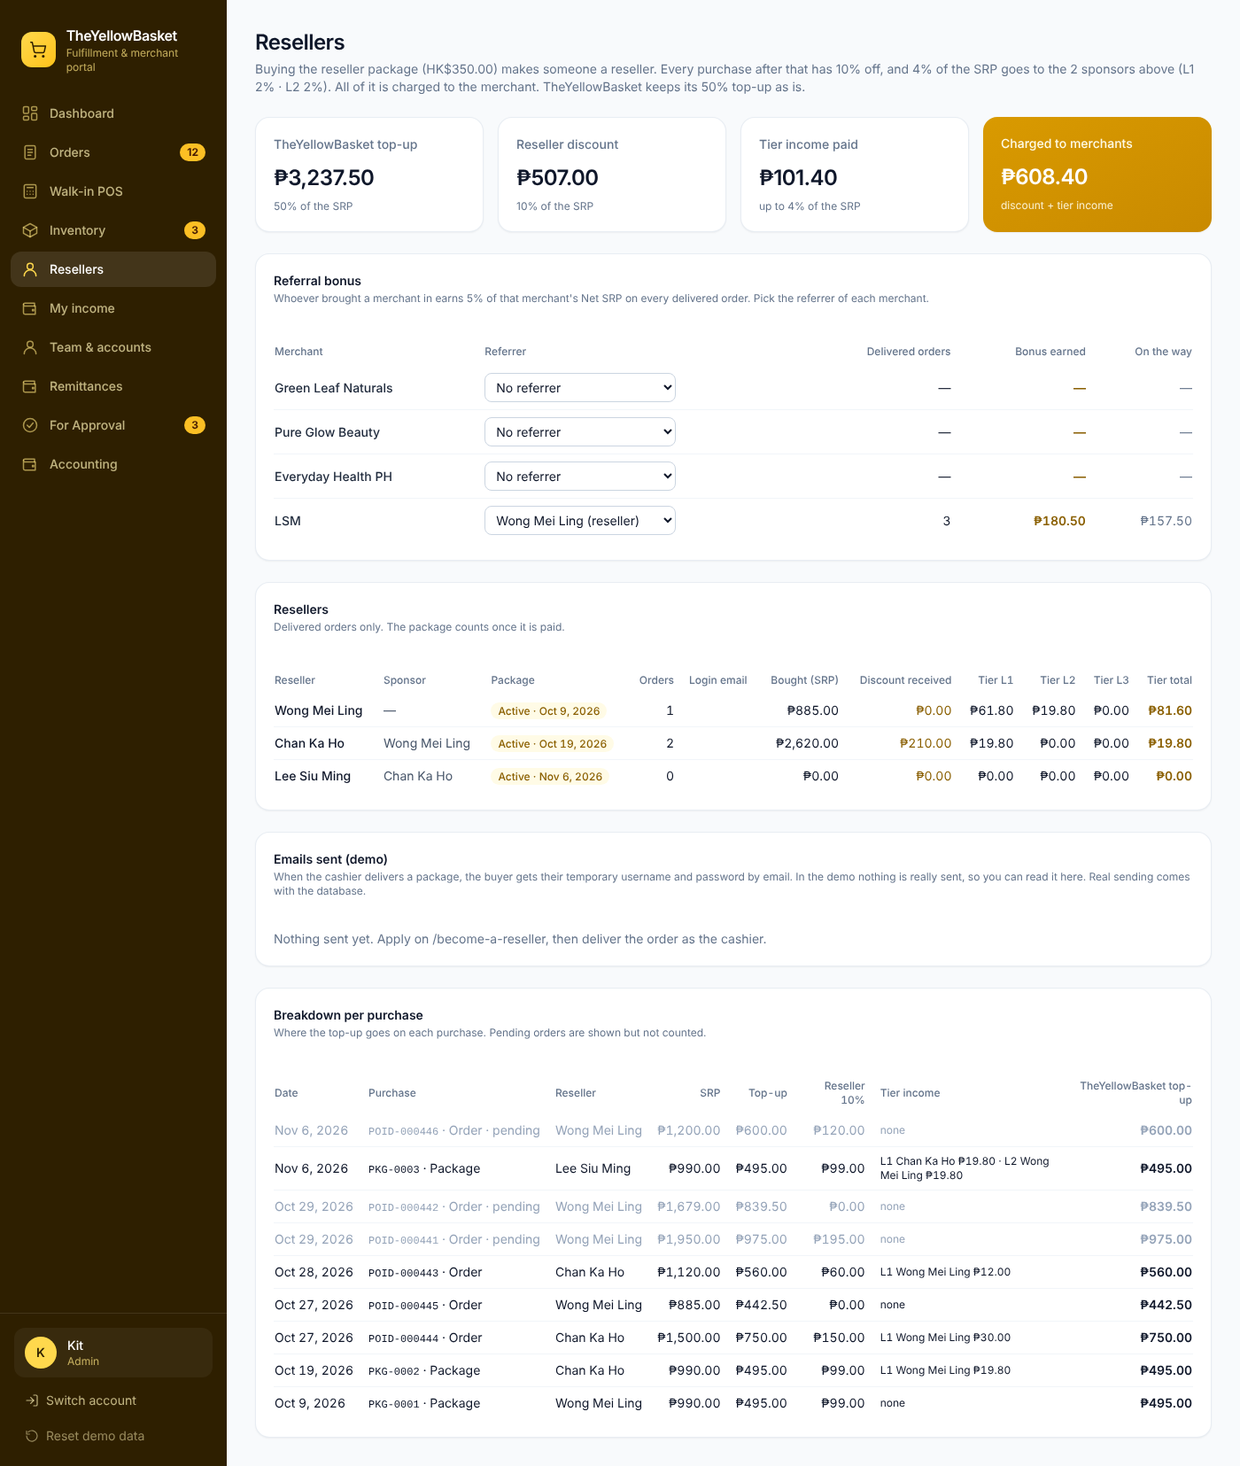
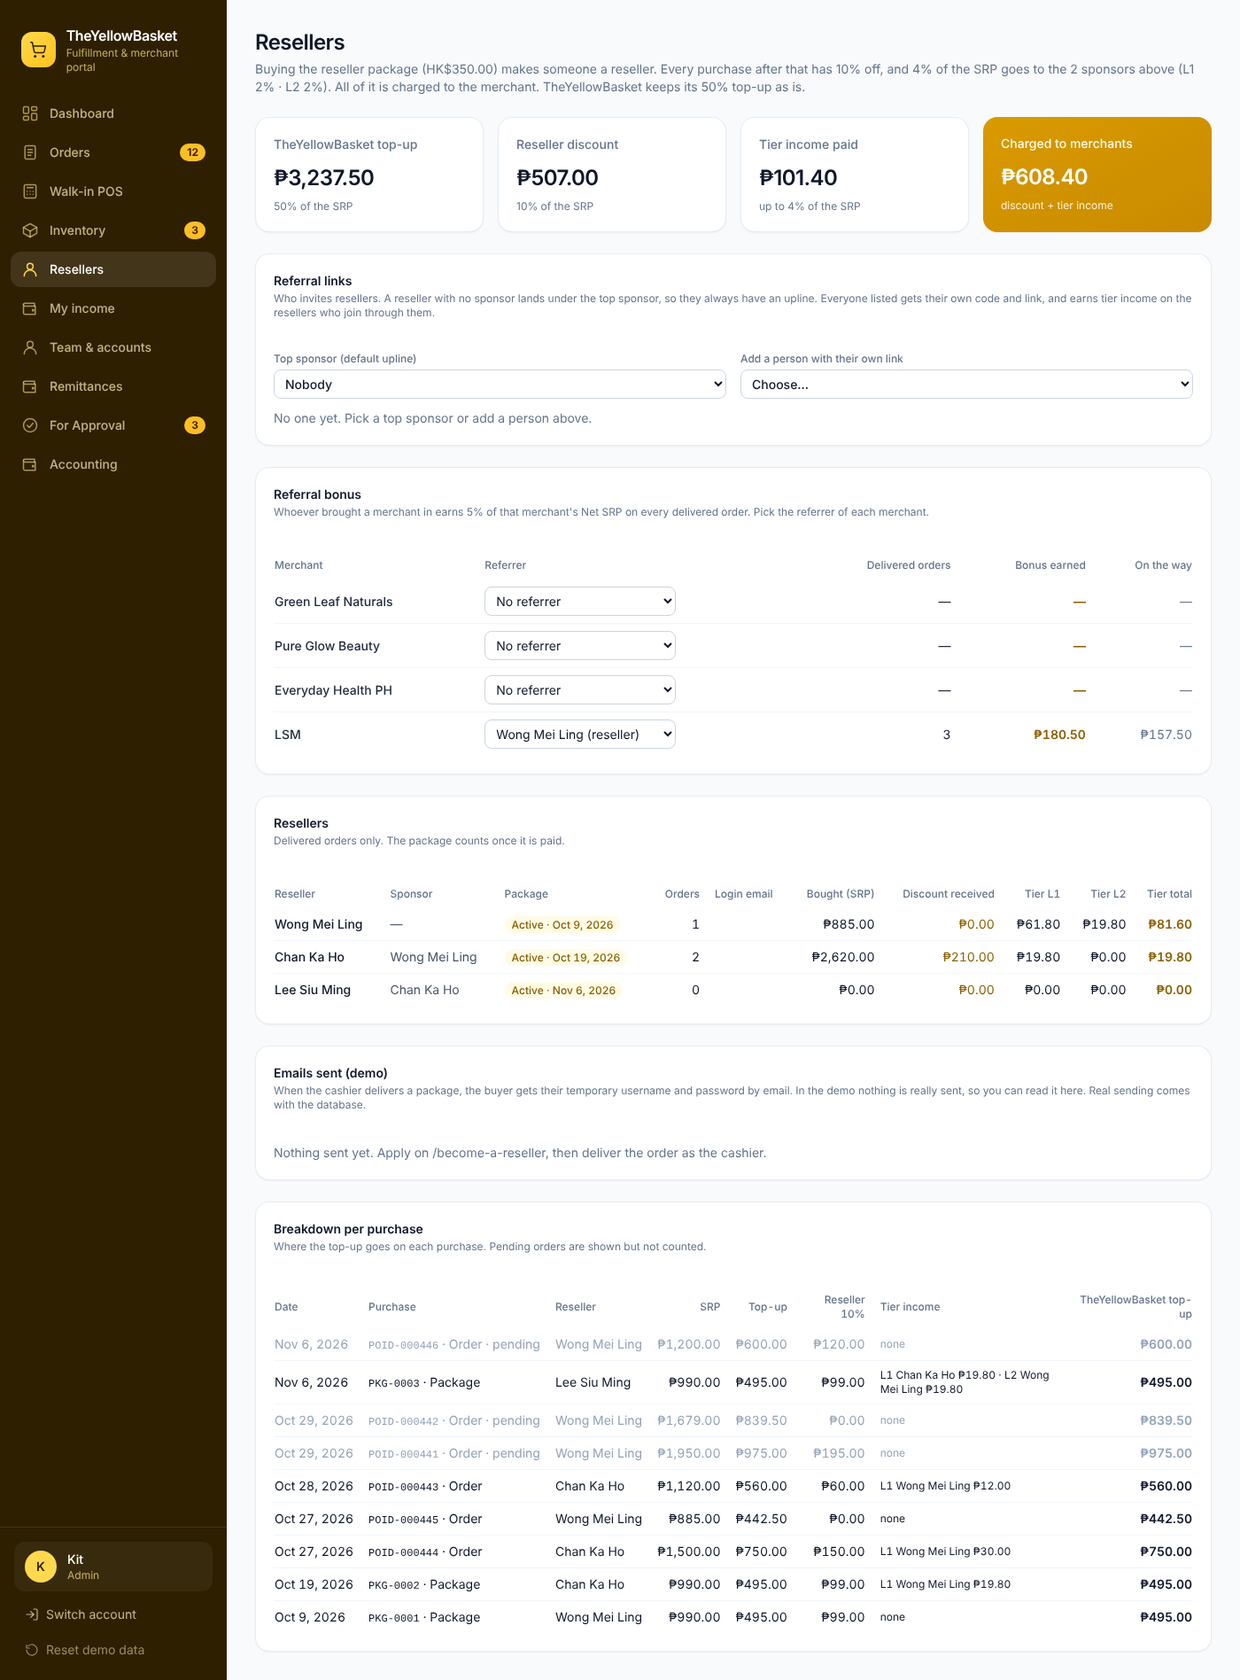
Top sponsor and referral links: default upline, link holders with own code, tier income for non-resellers
Claude-Session: https://claude.ai/code/session_01PscwmJvon7EWf21vZUWiBD

diff --git a/components/resellers/ResellersView.tsx b/components/resellers/ResellersView.tsx
@@ -7,6 +7,7 @@ import { InviteActions } from '@/components/team/InviteActions';
 import { StatCard } from '@/components/ui/StatCard';
 import { useAuth } from '@/lib/auth';
 import { formatCurrency, formatDate, formatHkd } from '@/lib/format';
+import { refCodeOf } from '@/lib/accounts';
 import { referralRows } from '@/lib/referral';
 import { resellerLedger, resellerSummaries } from '@/lib/reseller';
 import { useAppData } from '@/lib/store';
@@ -14,7 +15,7 @@ import { useAppData } from '@/lib/store';
 /** Admin and cashier: every reseller, what they got in discount and tier income, and the split of each purchase. */
 export function ResellersView() {
   const { user } = useAuth();
-  const { users, items, orders, packageSales, costing, outbox, merchants, setMerchantReferrer } = useAppData();
+  const { users, items, orders, packageSales, costing, outbox, merchants, setMerchantReferrer, setReferralLinks } = useAppData();
   const { settings } = costing;
   const nameOf = (id: string) => users.find((candidate) => candidate.id === id)?.name ?? id;
   const ledger = useMemo(() => resellerLedger(orders, packageSales, items, settings.markupPct, settings.referrerPct + settings.systemFeePct), [orders, packageSales, items, settings.markupPct, settings.referrerPct, settings.systemFeePct]);
@@ -41,6 +42,68 @@ export function ResellersView() {
           <StatCard label="Tier income paid" value={formatCurrency(tierPaid)} hint={`up to ${tierPct}% of the SRP`} />
           <StatCard label="Charged to merchants" value={formatCurrency(sum((row) => row.discountPhp) + tierPaid)} hint="discount + tier income" variant="primary" />
         </div>
+      ) : null}
+
+      {user.role === 'admin' ? (
+        <Card title="Referral links" subtitle="Who invites resellers. A reseller with no sponsor lands under the top sponsor, so they always have an upline. Everyone listed gets their own code and link, and earns tier income on the resellers who join through them.">
+          <div className="mt-3 grid gap-4 sm:grid-cols-2">
+            <label className="text-xs font-medium text-slate-500">
+              Top sponsor (default upline)
+              <select
+                aria-label="Top sponsor"
+                value={costing.rootSponsorId ?? ''}
+                onChange={(event) => void setReferralLinks(user, { rootSponsorId: event.target.value || null, linkHolderIds: costing.linkHolderIds ?? [] })}
+                className="mt-1 block w-full rounded-lg border border-slate-300 bg-white px-2 py-1.5 text-sm text-slate-900"
+              >
+                <option value="">Nobody</option>
+                {users.map((candidate) => (
+                  <option key={candidate.id} value={candidate.id}>{candidate.name} ({candidate.role === 'customer' ? 'reseller' : candidate.role})</option>
+                ))}
+              </select>
+            </label>
+            <label className="text-xs font-medium text-slate-500">
+              Add a person with their own link
+              <select
+                aria-label="Add link holder"
+                value=""
+                onChange={(event) => event.target.value && void setReferralLinks(user, { rootSponsorId: costing.rootSponsorId ?? null, linkHolderIds: [...(costing.linkHolderIds ?? []), event.target.value] })}
+                className="mt-1 block w-full rounded-lg border border-slate-300 bg-white px-2 py-1.5 text-sm text-slate-900"
+              >
+                <option value="">Choose…</option>
+                {users.filter((candidate) => !(costing.linkHolderIds ?? []).includes(candidate.id)).map((candidate) => (
+                  <option key={candidate.id} value={candidate.id}>{candidate.name} ({candidate.role === 'customer' ? 'reseller' : candidate.role})</option>
+                ))}
+              </select>
+            </label>
+          </div>
+          {(() => {
+            const holders = [...new Set([...(costing.rootSponsorId ? [costing.rootSponsorId] : []), ...(costing.linkHolderIds ?? [])])]
+              .map((id) => users.find((candidate) => candidate.id === id))
+              .filter((candidate): candidate is NonNullable<typeof candidate> => Boolean(candidate));
+            return holders.length === 0 ? (
+              <p className="mt-3 text-sm text-slate-500">No one yet. Pick a top sponsor or add a person above.</p>
+            ) : (
+              <ul className="mt-3 divide-y divide-slate-100 rounded-xl border border-slate-100 text-sm">
+                {holders.map((holder) => (
+                  <li key={holder.id} className="flex flex-wrap items-center justify-between gap-2 px-3 py-2">
+                    <span>
+                      <span className="font-medium text-slate-800">{holder.name}</span>
+                      {costing.rootSponsorId === holder.id ? <span className="ml-2 rounded bg-amber-100 px-1.5 py-0.5 text-[11px] font-semibold text-amber-800">Top sponsor</span> : null}
+                      <span className="ml-2 text-xs text-slate-500">{users.filter((candidate) => candidate.sponsorId === holder.id).length} invited</span>
+                    </span>
+                    <span className="flex items-center gap-2">
+                      <span className="font-mono text-xs text-slate-700">{refCodeOf(holder)}</span>
+                      <span className="font-mono text-xs text-slate-500">/become-a-reseller?ref={refCodeOf(holder)}</span>
+                      {(costing.linkHolderIds ?? []).includes(holder.id) ? (
+                        <button type="button" onClick={() => void setReferralLinks(user, { rootSponsorId: costing.rootSponsorId ?? null, linkHolderIds: (costing.linkHolderIds ?? []).filter((id) => id !== holder.id) })} className="text-xs font-semibold text-rose-600 hover:underline">Remove</button>
+                      ) : null}
+                    </span>
+                  </li>
+                ))}
+              </ul>
+            );
+          })()}
+        </Card>
       ) : null}
 
       {user.role === 'admin' ? (

diff --git a/lib/engine.ts b/lib/engine.ts
@@ -26,7 +26,7 @@ import {
   type CostingState,
   type ReferralLink,
 } from './costing';
-import { provisionReseller, validateCredentials } from './accounts';
+import { provisionReseller, refCodeOf, validateCredentials } from './accounts';
 import { demandOfLines, emptySplit, expiryOf, holderAt, makeStockBook, moveUnits, reservedUnits } from './stock';
 import { orderTotal } from './orders';
 import { buildWeekRemittances, remittedOrderIds, weekEndOf, weekStartOf } from './remittance';
@@ -257,6 +257,39 @@ export interface ResellerOrderInput {
 export const isActiveReseller = (state: AppState, userId: string): boolean =>
   state.packageSales.some((sale) => sale.resellerId === userId);
 
+/** Who can be above a buyer and earn tier income: resellers with the package, the top of the chain, and people given a link. */
+export const sponsorIds = (state: AppState): Set<string> =>
+  new Set([
+    ...state.packageSales.map((sale) => sale.resellerId),
+    ...(state.costing.rootSponsorId ? [state.costing.rootSponsorId] : []),
+    ...(state.costing.linkHolderIds ?? []),
+  ]);
+
+/** Can this person be picked as a sponsor? */
+export const canSponsor = (state: AppState, userId: string): boolean => sponsorIds(state).has(userId);
+
+/** Admin: the top of the chain, and the people who get their own code and link to invite resellers. */
+export function setReferralLinks(
+  state: AppState,
+  actor: Actor,
+  input: { rootSponsorId: string | null; linkHolderIds: string[] },
+  now: string,
+): Outcome<{ rootSponsorId?: string; linkHolderIds: string[] }> {
+  const denied = costingGuard(actor);
+  if (denied) return denied;
+  const known = (id: string) => state.users.some((user) => user.id === id);
+  if (input.rootSponsorId && !known(input.rootSponsorId)) return fail('Pick a person with an account as the top sponsor.');
+  if (input.linkHolderIds.some((id) => !known(id))) return fail('Pick people with an account.');
+  const linkHolderIds = [...new Set(input.linkHolderIds)];
+  const rootSponsorId = input.rootSponsorId || undefined;
+  const name = (id: string) => state.users.find((user) => user.id === id)?.name ?? id;
+  return {
+    ok: true,
+    state: logged(state, actor, now, 'Referral links changed', [`Top sponsor: ${rootSponsorId ? name(rootSponsorId) : 'nobody'}`, `Links: ${linkHolderIds.map(name).join(', ') || 'none'}`], { rootSponsorId, linkHolderIds }),
+    value: { rootSponsorId, linkHolderIds },
+  };
+}
+
 const isPackageLine = (state: AppState, itemId: string): boolean =>
   Boolean(state.items.find((item) => item.id === itemId)?.package);
 
@@ -265,7 +298,7 @@ export const hasPackage = (state: AppState, order: Order): boolean =>
 
 /**
  * A delivered package order makes its buyer a reseller. The sale is recorded with the split of the package
- * (top-up, reseller share, tier income to the 3 sponsors above) worked out on what was paid.
+ * (top-up, reseller share, tier income to the 2 sponsors above) worked out on what was paid.
  */
 function addPackageSale(initial: AppState, initialOrder: Order, recordedBy: string, now: string): AppState {
   let state = initial;
@@ -289,7 +322,7 @@ function addPackageSale(initial: AppState, initialOrder: Order, recordedBy: stri
   const buyerId = order.buyerId ?? order.createdBy;
   const buyer = state.users.find((user) => user.id === buyerId && user.role === 'customer');
   if (!buyer || isActiveReseller(state, buyer.id)) return state;
-  const active = new Set(state.packageSales.map((sale) => sale.resellerId));
+  const active = sponsorIds(state);
   const sale = makePackageSale(
     `PKG-${String(state.packageSales.length + 1).padStart(4, '0')}`,
     buyer,
@@ -338,7 +371,7 @@ export function placeResellerOrder(
 
   const { ids, poSeq } = nextPoids(state, byMerchant.size);
   const { resellerDiscountPct } = state.costing.settings;
-  const upline = uplineOf(state.users, new Set(state.packageSales.map((sale) => sale.resellerId)), actor.id);
+  const upline = uplineOf(state.users, sponsorIds(state), actor.id);
   const created: Order[] = [];
   for (const [merchantId, lines] of byMerchant) {
     const charges = resellerCharges(lines, state.items, state.costing);
@@ -408,8 +441,8 @@ export function checkoutWalkIn(
       if (name.length < 2) return fail('Enter the name of the customer buying the package.');
       const email = input.newReseller.email?.trim();
       if (email && !/^\S+@\S+\.\S+$/.test(email)) return fail('That email does not look right.');
-      const sponsorId = input.newReseller.sponsorId || undefined;
-      if (sponsorId && !isActiveReseller(state, sponsorId)) return fail('The sponsor must be a reseller who already has the package.');
+      const sponsorId = input.newReseller.sponsorId || state.costing.rootSponsorId || undefined;
+      if (sponsorId && !canSponsor(state, sponsorId)) return fail('The sponsor must be a reseller who already has the package.');
       const made = provisionReseller(state.users, { name, email, sponsorId }, now, state.outbox.length + 1);
       newUser = made.user;
       newEmail = made.email;
@@ -2092,9 +2125,12 @@ export function applyForReseller(state: AppState, input: ResellerApplication, no
   let sponsorId: string | undefined;
   const code = input.refCode?.trim().toUpperCase();
   if (code) {
-    const sponsor = state.users.find((user) => user.refCode === code && isActiveReseller(state, user.id));
+    const sponsor = state.users.find((user) => refCodeOf(user) === code && canSponsor(state, user.id));
     if (!sponsor) return fail('We could not find that referral code. Check it or leave it empty.');
     sponsorId = sponsor.id;
+  } else if (state.costing.rootSponsorId) {
+    // No code: the new reseller lands under the top of the chain.
+    sponsorId = state.costing.rootSponsorId;
   }
   const built = buildLines(state, [{ itemId: item.id, quantity: 1 }], dateOf(now), undefined, input.branch);
   if (!built.ok) return fail(built.error);

diff --git a/lib/server/scope.ts b/lib/server/scope.ts
@@ -75,6 +75,17 @@ const merchantsFor = (me: User, merchants: Merchant[]): Merchant[] =>
     return rest;
   });
 
+/** Package sales and orders on which this person earns tier income, with only their own tier line. For people who are not resellers. */
+function earningsOf(me: User, state: AppState): { sales: PackageSale[]; orders: Order[] } {
+  const mine = <T extends { userId: string }>(tiers: T[] | undefined) => (tiers ?? []).filter((tier) => tier.userId === me.id);
+  return {
+    sales: state.packageSales.filter((sale) => mine(sale.tiers).length > 0).map((sale): PackageSale => ({ ...sale, tiers: mine(sale.tiers) })),
+    orders: state.orders
+      .filter((order) => mine(order.tiers).length > 0)
+      .map((order): Order => ({ ...redactOrder(order), customerName: order.customerName, tiers: mine(order.tiers) })),
+  };
+}
+
 export function scopeFor(me: User, state: AppState, merchantList: Merchant[]): Scoped {
   const merchants = merchantsFor(me, merchantList);
   const base: AppState = { ...state, outbox: [], poSeq: 0 };
@@ -90,6 +101,8 @@ export function scopeFor(me: User, state: AppState, merchantList: Merchant[]): S
     .map((link) => ({ ...link, stats: referralStats(state.orders, link.merchantId, state.costing.settings.referrerPct) }));
   const costing = { ...state.costing, settings: { ...state.costing.settings, markupPct: 0 }, log: [], referrals };
 
+  const earnings = earningsOf(me, state);
+
   if (me.role === 'merchant') {
     const mine = (merchantId: string) => merchantId === me.merchantId;
     return {
@@ -99,11 +112,11 @@ export function scopeFor(me: User, state: AppState, merchantList: Merchant[]): S
         costing,
         items: state.items.filter((item) => mine(item.merchantId)),
         products: state.products.filter((product) => mine(product.merchantId)),
-        orders: state.orders.filter((order) => mine(order.merchantId)),
+        orders: [...state.orders.filter((order) => mine(order.merchantId)), ...earnings.orders.filter((order) => !mine(order.merchantId))],
         receipts: state.receipts.filter((receipt) => mine(receipt.merchantId)),
         reversals: state.reversals.filter((request) => mine(request.merchantId)),
         remittances: state.remittances.filter((remittance) => mine(remittance.merchantId)),
-        packageSales: [],
+        packageSales: earnings.sales,
         users: state.users.filter((user) => user.id === me.id).map(noPassword),
       },
     };
@@ -159,7 +172,7 @@ export function scopeFor(me: User, state: AppState, merchantList: Merchant[]): S
       receipts: state.receipts,
       reversals: state.reversals,
       remittances: me.role === 'cashier' ? state.remittances : [],
-      packageSales: me.role === 'cashier' ? state.packageSales : [],
+      packageSales: me.role === 'cashier' ? state.packageSales : earnings.sales,
       users: state.users.map(noPassword).map((user) => (me.role === 'cashier' || user.role !== 'customer' ? user : publicUser(user))),
     },
   };

diff --git a/lib/store.tsx b/lib/store.tsx
@@ -152,6 +152,7 @@ export interface AppDataValue {
   goLiveCostingRow: (actor: Actor, rowId: string) => Promise<ActionResult<CostingRow>>;
   setSkuDisabled: (actor: Actor, itemId: string, disabled: boolean) => Promise<ActionResult<InventoryItem>>;
   setProgramMerchant: (actor: Actor, merchantId: string, on: boolean) => Promise<ActionResult<string[]>>;
+  setReferralLinks: (actor: Actor, input: { rootSponsorId: string | null; linkHolderIds: string[] }) => Promise<ActionResult<{ rootSponsorId?: string; linkHolderIds: string[] }>>;
   setMerchantReferrer: (actor: Actor, merchantId: string, userId: string | null) => Promise<ActionResult<ReferralLink[]>>;
   setSkuReseller: (actor: Actor, itemId: string, inProgram: boolean) => Promise<ActionResult<InventoryItem>>;
   addSku: (actor: Actor, input: engine.NewSkuInput) => Promise<ActionResult<InventoryItem>>;
@@ -323,6 +324,7 @@ export function AppDataProvider({ children }: { children: ReactNode }) {
       approveCostingRow: (actor, rowId) => run((s) => engine.approveCostingRow(s, actor, rowId, nowISO())),
       revokeApproval: (actor, rowId) => run((s) => engine.revokeApproval(s, actor, rowId, nowISO())),
       goLiveCostingRow: (actor, rowId) => run((s) => engine.goLiveCostingRow(s, actor, rowId, nowISO())),
+      setReferralLinks: (actor, input) => run((st) => engine.setReferralLinks(st, actor, input, nowISO())),
       setMerchantReferrer: (actor, merchantId, userId) =>
         run((st) => engine.setMerchantReferrer(st, actor, merchantId, userId, nowISO())),
       setProgramMerchant: (actor, merchantId, on) =>

diff --git a/components/wallet/WalletView.tsx b/components/wallet/WalletView.tsx
@@ -3,6 +3,7 @@
 import { useState } from 'react';
 import { PageHeader } from '@/components/layout/PageHeader';
 import { IncomeWalletCard } from '@/components/orders/IncomeWalletCard';
+import { refCodeOf } from '@/lib/accounts';
 import { useAuth } from '@/lib/auth';
 import { useAppData } from '@/lib/store';
 
@@ -11,7 +12,11 @@ export function WalletView() {
   const { user } = useAuth();
   const { users, packageSales, orders, costing } = useAppData();
   // Only people who are a referrer of a merchant have a wallet to open here.
-  const referrerIds = new Set((costing.referrals ?? []).map((link) => link.userId));
+  const referrerIds = new Set([
+    ...(costing.referrals ?? []).map((link) => link.userId),
+    ...(costing.linkHolderIds ?? []),
+    ...(costing.rootSponsorId ? [costing.rootSponsorId] : []),
+  ]);
   const [who, setWho] = useState('');
   if (!user) return null;
   const isAdmin = user.role === 'admin';
@@ -31,7 +36,7 @@ export function WalletView() {
           </select>
         </label>
       ) : null}
-      <IncomeWalletCard userId={shown.id} sales={packageSales} orders={orders} refCode={shown.refCode} />
+      <IncomeWalletCard userId={shown.id} sales={packageSales} orders={orders} refCode={referrerIds.has(shown.id) || shown.refCode ? refCodeOf(shown) : undefined} />
     </div>
   );
 }

diff --git a/lib/server/actions.ts b/lib/server/actions.ts
@@ -42,6 +42,7 @@ export const ACTIONS: Record<string, Handler> = {
   approveRelease: (st, ac, a, now) => engine.approveRelease(st, ac, s(a.remittanceId), now),
   rejectRelease: (st, ac, a, now) => engine.rejectRelease(st, ac, s(a.remittanceId), s(a.reason), now),
   setSkuDisabled: (st, ac, a, now) => engine.setSkuDisabled(st, ac, s(a.itemId), a.disabled === true, now),
+  setReferralLinks: (st, ac, a, now) => engine.setReferralLinks(st, ac, { rootSponsorId: a.rootSponsorId ? s(a.rootSponsorId) : null, linkHolderIds: Array.isArray(a.linkHolderIds) ? a.linkHolderIds.map((id) => s(id)) : [] }, now),
   setMerchantReferrer: (st, ac, a, now) => engine.setMerchantReferrer(st, ac, s(a.merchantId), a.userId ? s(a.userId) : null, now),
   setProgramMerchant: (st, ac, a, now) => engine.setProgramMerchant(st, ac, s(a.merchantId), a.on === true, now),
   setSkuReseller: (st, ac, a, now) => engine.setSkuReseller(st, ac, s(a.itemId), a.inProgram === true, now),

diff --git a/lib/accounts.ts b/lib/accounts.ts
@@ -13,6 +13,15 @@ export function makeRefCode(name: string, userId: string): string {
   return `${initials || 'R'}-${number.padStart(2, '0')}`;
 }
 
+/** The code of anyone who invites resellers: a reseller's own code, or one made from the name for staff and others. */
+export function refCodeOf(user: User): string {
+  if (user.refCode) return user.refCode;
+  const base = makeRefCode(user.name, user.id).split('-')[0];
+  let hash = 0;
+  for (const char of user.id) hash = (hash * 31 + char.charCodeAt(0)) % 46656;
+  return `${base}-${hash.toString(36).toUpperCase().padStart(3, '0')}`;
+}
+
 /** A readable sign-in name from the email ("maria.santos@x.com" -> "maria.santos"), made unique. */
 export function makeUsername(email: string, taken: Set<string>): string {
   const base = (email.split('@')[0] || 'reseller').toLowerCase().replace(/[^a-z0-9._-]/g, '').slice(0, 24) || 'reseller';

diff --git a/components/layout/AppShell.tsx b/components/layout/AppShell.tsx
@@ -87,10 +87,10 @@ export function AppShell({ children }: { children: ReactNode }) {
             (entry) =>
               entry.roles.includes(user.role) &&
               // The wallet is for admin, or for someone who brought a merchant in.
-              (entry.href !== '/wallet' || user.role === 'admin' || (costing.referrals ?? []).some((link) => link.userId === user.id)),
+              (entry.href !== '/wallet' || user.role === 'admin' || (costing.referrals ?? []).some((link) => link.userId === user.id) || (costing.linkHolderIds ?? []).includes(user.id) || costing.rootSponsorId === user.id),
           )
         : [],
-    [user, costing.referrals],
+    [user, costing.referrals, costing.linkHolderIds, costing.rootSponsorId],
   );
 
   // The most specific nav entry wins, so /orders/new does not also light up "Orders".

diff --git a/lib/remote.tsx b/lib/remote.tsx
@@ -204,6 +204,7 @@ export function RemoteProviders({ children }: { children: ReactNode }) {
       revokeApproval: (_a, rowId) => call('revokeApproval', { rowId }),
       goLiveCostingRow: (_a, rowId) => call('goLiveCostingRow', { rowId }),
       setSkuDisabled: (_a, itemId, disabled) => call('setSkuDisabled', { itemId, disabled }),
+      setReferralLinks: (_a, input) => call('setReferralLinks', { ...input }),
       setMerchantReferrer: (_a, merchantId, userId) => call('setMerchantReferrer', { merchantId, userId }),
       setProgramMerchant: (_a, merchantId, on) => call('setProgramMerchant', { merchantId, on }),
       setSkuReseller: (_a, itemId, inProgram) => call('setSkuReseller', { itemId, inProgram }),

diff --git a/lib/costing.ts b/lib/costing.ts
@@ -116,6 +116,10 @@ export interface CostingState {
   programMerchantIds: string[];
   /** Referral bonus: the person who brought a merchant in earns the referrer % of that merchant's delivered Net SRP. */
   referrals?: ReferralLink[];
+  /** Resellers who have no sponsor land under this person (the top of the chain, e.g. the chairman). */
+  rootSponsorId?: string;
+  /** People other than resellers who invite resellers with their own code and link. */
+  linkHolderIds?: string[];
 }
 
 export interface ReferralLink {
